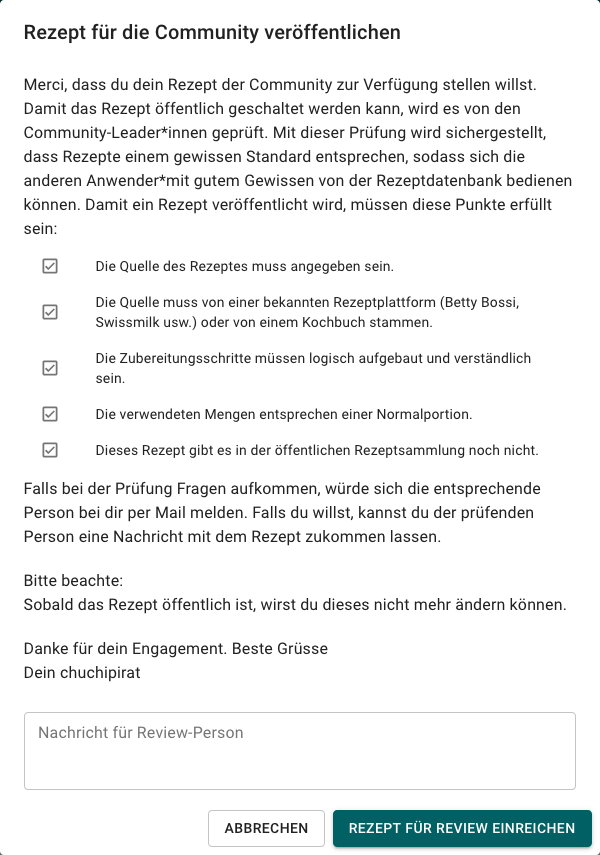
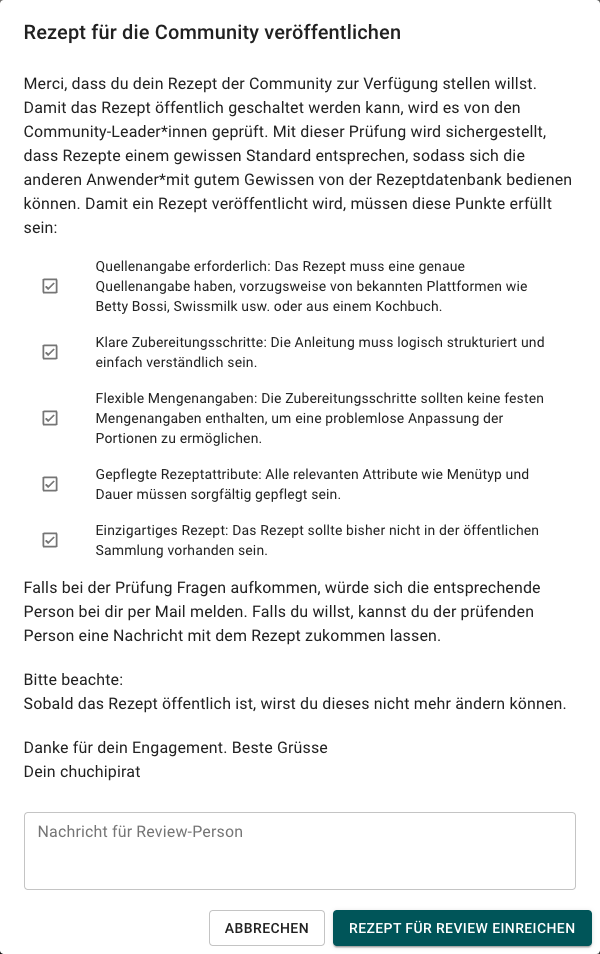
Neue Anpassungen - Schlussspurt

diff --git a/docs/others/report bug.md b/docs/others/report bug.md
@@ -1,0 +1,73 @@
+---
+layout: home
+title: Fehler in der App melden
+parent: FAQ
+nav_exclude: false
+nav_order: 8
+---
+# Fehler in der App melden
+{: .no_toc }
+## Inhalt
+{: .no_toc .text-delta }
+
+- TOC
+{:toc}
+
+---
+Die App wurde nach bestem Wissen und Gewissen ehrenamtlich entwickelt. Es wurde grosser Wert auf Richtigkeit und Vollständigkeit gelegt. Dennoch kann nicht garantiert werden, dass die App fehlerlos ist. Falls du einen Fehler findest, melde diesen, damit sich das Chuchipirat-Team darum kümmern kann.
+
+## Wo kann ich einen Fehler melden?
+
+Fehler kannst du an die folgende E-Mailadresse senden: hilfe@chuchipirat.ch.
+
+{: .note }
+Aufgrund der ehrenamtlichen Arbeit kann eine längere Bearbeitungszeit auftreten.
+
+## Wie erkenne ich einen Fehler?
+
+Ein Fehler kann sich auf unterschiedliche Weise äussern. Hier ist eine nicht vollständige Liste, woran du einen Fehler erkennen kannst:
+
+- Es wird eine Fehlermeldung angezeigt (üblicherweise in einer roten Box).
+- Du nimmst eine Aktion vor (zum Beispiel einen Klick auf einen Button), und es geschieht keine sichtbare Reaktion.
+- Die angezeigten Daten stimmen nicht.
+- Eine gewisse Aktion lässt sich nicht (mehr) ausführen.
+
+## Was muss ich tun, um einen Fehler zu melden?
+
+Der wichtigste Punkt ist, dass du Fehler möglichst genau beschreibst. Die Person, die dir helfen wird, muss verstehen, was du wo getan hast, und wird versuchen, den Fehler zu reproduzieren, um diesen dann zu lösen. Folgende Informationen werden mindestens benötigt:
+
+1. **Fehlerort:** Wo genau findet der Fehler statt? Hier kannst du die URL (Adresse des Browsers) der Seite, auf der der Fehler passiert, mitteilen.
+    
+2. **Fehlerbeschreibung:** Wie äussert sich der Fehler?
+    
+3. **Wie kann der Fehler reproduziert werden?** Eine genaue Beschreibung, welche Aktionen du vornimmst (Was geklickt, welches Feld ausgefüllt usw.). Du kannst beispielsweise ein Video aufnehmen und/oder Screenshots (mit Beschreibung) erstellen.
+    
+4. **Welches Resultat wird erwartet?** Beschreibe, was du erwarten würdest, wenn der Fehler nicht wäre.
+    
+5. **Gibt es zusätzliche Informationen/Hinweise, die helfen, den Fehler zu beheben?** Hast du etwas beobachtet? Oder sonst Informationen, die uns helfen, eine Lösung für den Fehler zu finden.
+    
+6. **Logs:** Dein Browser schreibt im Hintergrund Log-Einträge im Browser. Diese können wichtige Hinweise liefern, wieso etwas nicht funktioniert. Exportiere diese aus deinem Browser und sende sie als Anhang mit. Wie das geht, ist im nächsten Abschnitt beschrieben.
+    
+## Wie exportiere ich die Browser-Logs?
+
+Die Browser-Logs sind in den Entwickler-Tools des Browsers zu finden. Je nach Betriebssystem und Browser unterscheidet sich das Vorgehen minim. Nachfolgend sind Anleitungen, wie du die Log-Konsole zu den gängigsten Browsern öffnest. Sobald die Konsole geöffnet ist, kannst du einen Rechtsklick in der Konsole ausführen und aus dem Kontextmenü den Eintrag "Speichern unter" (oder so ähnlich) wählen. Sende diese Datei zusammen mit deiner Fehlerbeschreibung.
+
+![geöffnete Entwicklerkonsole](https://github.com/chuchipirat/chuchipirat.github.io/blob/main/docs/others/_images/dev_tools.png?raw=true)
+_geöffnete Entwicklerkonsole_
+
+![Log-Konsole](https://github.com/chuchipirat/chuchipirat.github.io/blob/main/docs/others/_images/console_log.png?raw=true)
+_Log-Konsole_
+## Zusätzliche Informationen für eine detaillierte Fehlermeldung:
+
+Um eine effiziente Fehlerbehebung zu ermöglichen, wäre es hilfreich, folgende Informationen bereitzustellen:
+
+- **Betriebssystem:** Teile uns bitte mit, welches Betriebssystem du verwendest (z.B., Windows 10, macOS Big Sur, Linux).
+    
+- **Browser-Version:** Gib die genaue Version des Browsers an, in dem der Fehler auftritt (z.B., Chrome 98.0.4758.102, Firefox 97.0.1).
+    
+- **Gerät:** Falls du auf einem mobilen Gerät arbeitest, teile uns bitte den Gerätetyp und das Modell mit (z.B., iPhone 13, Samsung Galaxy S21).
+    
+- **Internetverbindung:** Prüfe, ob deine Internetverbindung stabil ist, da instabile Verbindungen zu Fehlern führen können.
+    
+
+Durch die Bereitstellung dieser zusätzlichen Informationen können wir schneller herausfinden, ob der Fehler systemspezifisch ist oder mit einer bestimmten Konfiguration zusammenhängt.

diff --git a/docs/recipe/recipe publish.md b/docs/recipe/recipe publish.md
@@ -26,11 +26,11 @@ Nach der Veröffentlichung deines Rezeptes kannst du dieses nicht mehr anpassen.
 
 Damit ein Rezept veröffentlicht wird, müssen die folgenden Punkte erfüllt sein:
 
-- Die Quelle des Rezeptes muss angegeben sein.
-- Die Quelle muss von einer bekannten und anerkannten Rezeptplattform (Betty Bossi, Swissmilk usw.) oder von einem Kochbuch stammen.
-- Die Zubereitungsschritte müssen logisch aufgebaut und verständlich sein.
-- Die verwendeten Mengen entsprechen einer Normalportion.
-- Dieses Rezept gibt es in der öffentlichen Rezeptsammlung bisher nicht.
+- **Quellenangabe erforderlich:** Das Rezept muss eine genaue Quellenangabe haben, vorzugsweise von bekannten Plattformen wie Betty Bossi oder aus einem Kochbuch.
+- **Klare Zubereitungsschritte:** Die Anleitung muss logisch strukturiert und einfach verständlich sein.
+- **Flexible Mengenangaben:** Die Zubereitungsschritte sollten keine festen Mengenangaben enthalten, um eine problemlose Anpassung der Portionen zu ermöglichen.
+- **Gepflegte Rezeptattribute:** Alle relevanten Attribute wie Menütyp und Dauer müssen sorgfältig gepflegt sein.
+- **Einzigartiges Rezept:** Das Rezept sollte bisher nicht in der öffentlichen Sammlung vorhanden sein.
 
 # Eigenes Rezept veröffentlichen
 

diff --git a/index.md b/index.md
@@ -3,10 +3,8 @@ layout: home
 title: Home
 nav_exclude: true
 ---
-#todo 
 
-{: .note }
-Hier folgt in Kürze die aktualisierte Dokumentation zum chuchipirat.
+![Logo](https://github.com/chuchipirat/chuchipirat.github.io/blob/main/docs/others/_images/logo_16_9.png?raw=true)
 
 
 Der chuchipirat ist eine Web-Applikation, die Freiwillige in Jugendverbänden in der Planung, Durchführung und Nachbearbeitung von Lagerküchen unterstützt. Das Kochen in grossen Mengen in einem Lager oder Kurs ist gerade in der Vorbereitung aufwendig und erfordert spezifische Kenntnisse, damit nicht nur schmackhaftes, sondern auch Essen in passender Menge serviert werden kann.

diff --git a/docs/request/requests.md b/docs/request/requests.md
@@ -19,7 +19,7 @@ has_children: true
 Bei einem Antrag handelt es sich um etwas das geprüft wird. Es gibt aktuelle folgende Anträge:
 
 * [Rezept veröffentlichen]({% link docs/recipe/recipe publish.md %})
-* Fehler im Rezept melden
+* [Fehler im Rezept melden]({% link docs/recipe/recipe report bug.md %})
 
 # Übersicht
 In der Übersicht siehst du alle deine Anträge und in welchem Status sich diese befinden.

diff --git a/docs/others/faq.md b/docs/others/faq.md
@@ -2,8 +2,8 @@
 layout: page
 title: FAQ
 permalink: /faq
-nav_exclude: 
-has_children: 
+nav_exclude: false
+has_children: true
 nav_order: 8
 ---
 # FAQ - Häufige Fragen
